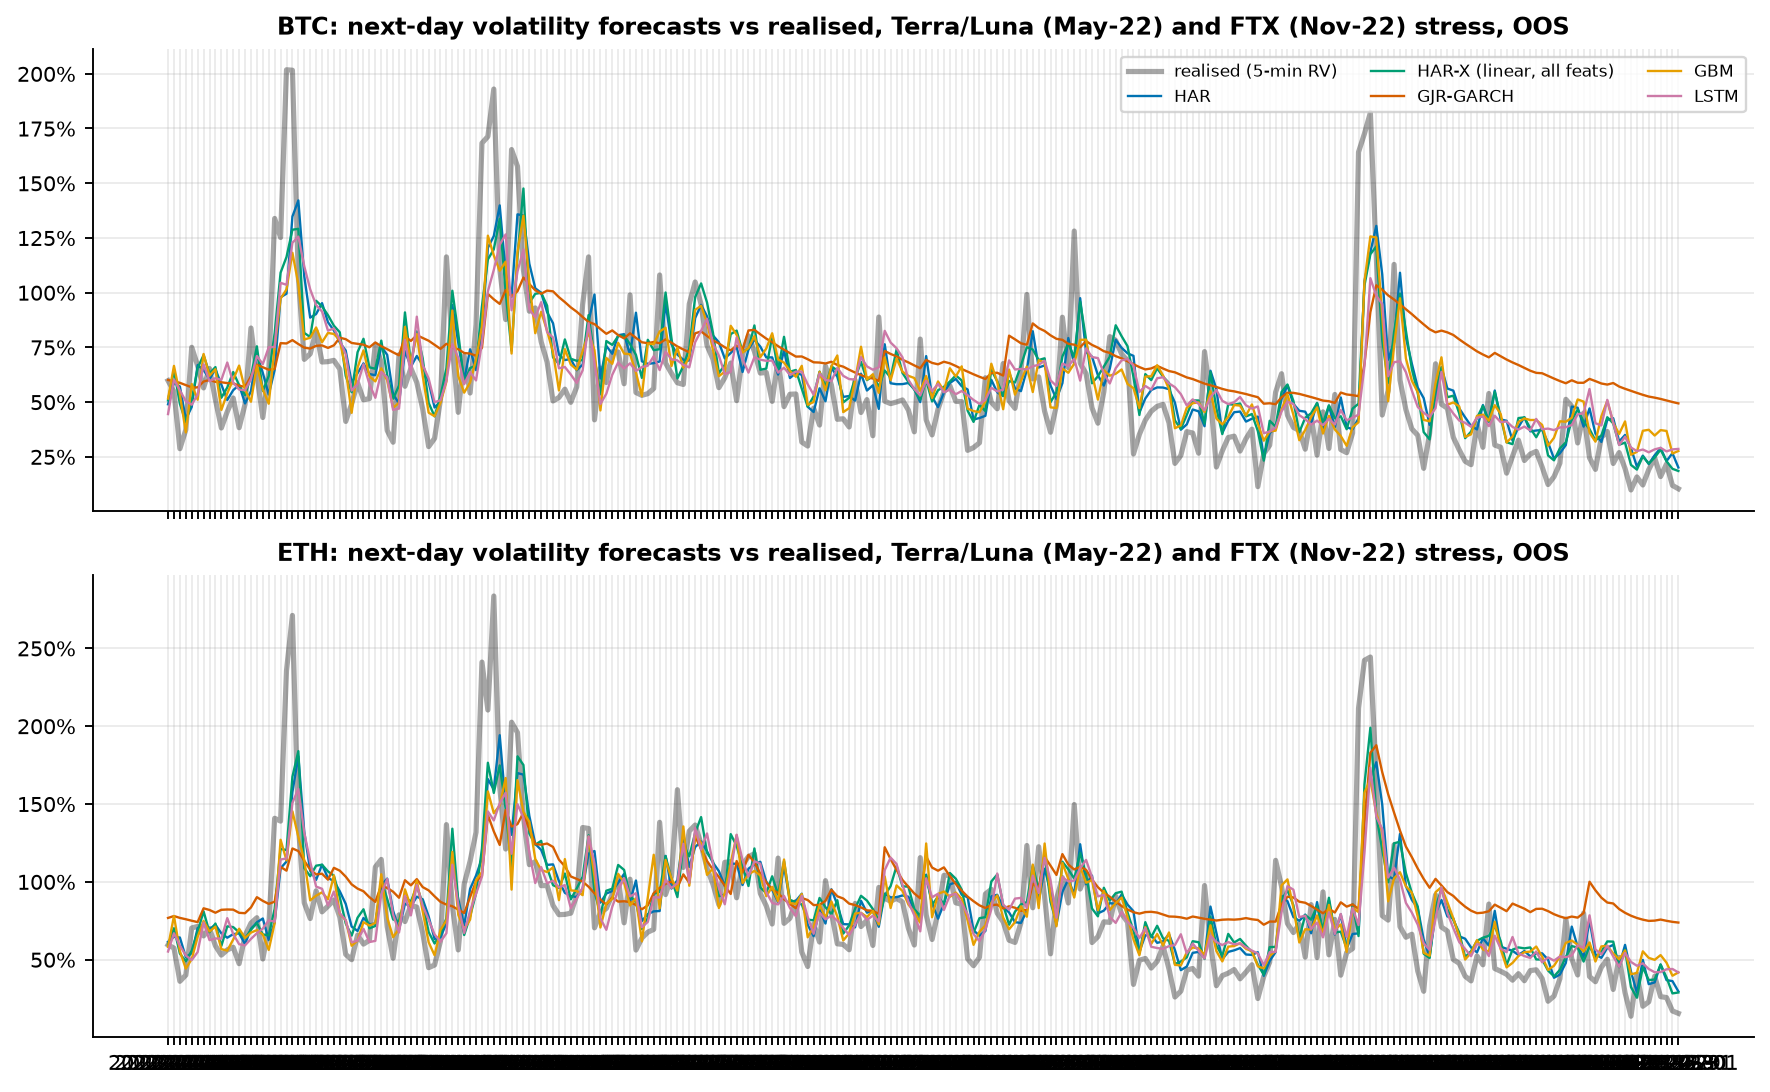
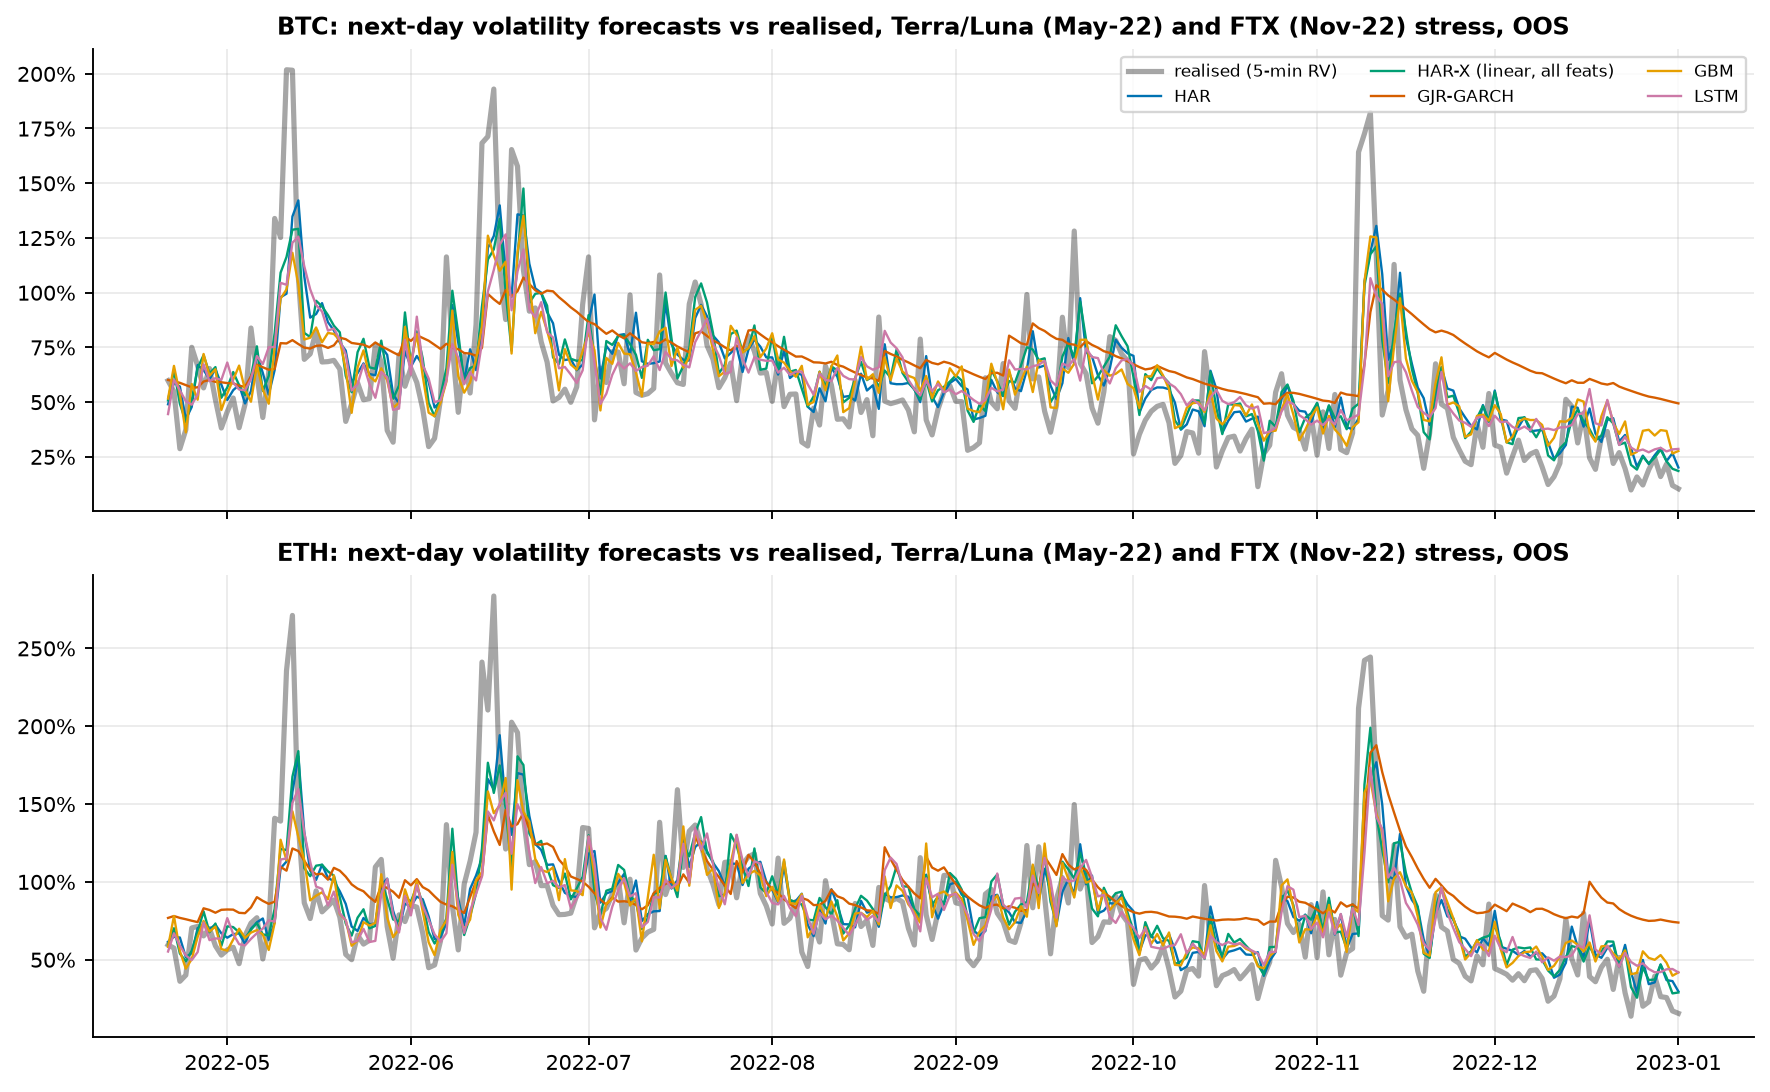
README with results, figures set, hourly forecasts

Changed region(s): [[0.0621, 0.9652, 0.9944, 0.9963]]

diff --git a/src/ivr/figures.py b/src/ivr/figures.py
@@ -44,7 +44,10 @@ def _daily(sym):
 
 
 def _fc(sym, kind="daily"):
-    return pd.read_csv(RES / f"{kind}_forecasts_{sym}.csv", index_col=0, parse_dates=True)
+    fc = pd.read_csv(RES / f"{kind}_forecasts_{sym}.csv", index_col=0, parse_dates=True)
+    if "target_date" in fc:
+        fc["target_date"] = pd.to_datetime(fc["target_date"])
+    return fc
 
 
 def _close_daily(sym):
@@ -397,9 +400,10 @@ def fig14_equity_drawdown():
             ax[0, j].plot(eq, color=c, lw=1.1, label=n)
             ax[1, j].plot(eq / eq.cummax() - 1, color=c, lw=0.9)
         ax[0, j].set_yscale("log")
-        ax[0, j].set_title(f"{s[:3]}: growth of 1 USDT, net of 10 bps one-way costs\nILLUSTRATION of risk control, not a strategy; sample drift dominates returns")
+        ax[0, j].set_title(f"{s[:3]}: growth of 1 USDT, net of 10 bps one-way costs")
         ax[1, j].set_title("Drawdown"); ax[1, j].yaxis.set_major_formatter(matplotlib.ticker.PercentFormatter(1.0, decimals=0))
     ax[0, 0].legend(fontsize=6.5)
+    fig.suptitle("ILLUSTRATION of risk control, not a strategy: returns are dominated by the sample's drift", fontsize=10, y=1.01)
     _save(fig, "14_equity_and_drawdown_illustration")
 
 

diff --git a/README.md b/README.md
@@ -1,0 +1,245 @@
+# Intraday volatility forecasting: microstructure features, walk-forward evaluation, transaction costs
+
+Forecasting next-day and next-hour **realised volatility** of BTC/USDT and ETH/USDT from 5-minute
+returns plus volume / taker-flow / spread-proxy features, comparing HAR-RV, GARCH/GJR-GARCH,
+gradient boosting and a small LSTM under a strict walk-forward protocol (QLIKE, MSE, Diebold-Mariano),
+and then using the forecasts for a **volatility-targeting position-sizing illustration with explicit costs**.
+
+> **This repository is a forecasting and risk-management study. It does not contain, and does not claim,
+> a profitable trading strategy.** The sizing experiment is judged on how well it controls risk, and
+> in this sample it does *not* improve return or Sharpe versus buy-and-hold (see below).
+
+Everything below is reproduced by the code in this repo from public data; every number in the tables
+is copied from `reports/results/*.csv`.
+
+## Data
+
+* **Source:** Binance public market data, `data.binance.vision` spot monthly 1-minute klines, BTCUSDT and
+  ETHUSDT, Jan 2019 - Sep 2026. No login, no API key. Raw zips are checked against Binance's published
+  SHA-256 file, parsed as CSV in memory (never extracted/executed) and kept in `data/raw/` (git-ignored).
+* 4.07 M one-minute bars per symbol; 0.10 % of minutes are missing (exchange downtime). Days with >10 % of
+  minutes missing are dropped (10 days for BTC, all in 2019-2021, i.e. before the out-of-sample period).
+* Processed 1-minute parquet (DuckDB) and daily features in `data/processed/` (git-ignored, rebuilt by the CLI).
+* A "day" is a UTC calendar day (crypto trades 24/7), 288 five-minute bars.
+
+![price and vol](reports/figures/01_price_and_realised_vol.png)
+
+### Stylised facts that motivate the models
+
+| | |
+|---|---|
+| ![seasonality](reports/figures/02_intraday_seasonality.png) | ![acf](reports/figures/03_volatility_clustering_acf.png) |
+| Strong intraday and weekday seasonality (volatility and volume peak in the US/EU overlap, weekends are quiet). This is why a weekday term matters in the results below. | Returns are nearly uncorrelated; |returns| and log RV are strongly and persistently autocorrelated (long memory) which is what HAR exploits. |
+
+![distributions](reports/figures/04_return_and_logrv_distributions.png)
+![jumps](reports/figures/05_jumps_rv_vs_bv.png)
+
+## Features (all known at the end of period *t*)
+
+* **Realised variance** from 5-minute log returns, **bipower variation**, jump variance `max(RV-BV,0)` and share,
+  negative semivariance share, share of variance in the last 4 hours of the day.
+* **HAR lags:** log RV at 1 day, 7-day and 30-day means.
+* **Volume / flow:** log traded value, log trade count, **taker-buy imbalance** `(2*taker_buy_base - volume)/volume`
+  (Binance provides taker-buy volume), Amihud-style illiquidity.
+* **Spread proxies** (no order book is available): Corwin-Schultz (2012) high-low estimator (two consecutive
+  daily bars) and Roll (1984) from 1-minute return autocovariance.
+* **Seasonality:** weekday of the target day (daily model), hour of the target hour (hourly model).
+
+![microstructure](reports/figures/06_microstructure_proxies.png)
+
+Spread proxies and volume are informative about *level* of volatility (top bars) but add little beyond the HAR
+lags once the HAR forecast is known (hatched bars: correlation with HAR's log forecast error is ~0). The
+Corwin-Schultz values here (~100 bps daily) are dominated by the daily range, i.e. by volatility itself, not by the
+true quoted spread of these very liquid pairs; treat them as a volatility-liquidity proxy, not a cost estimate.
+
+## Models
+
+| Model | Description |
+|---|---|
+| Naive | tomorrow's RV = today's RV |
+| **HAR** (baseline) | OLS on log RV: daily, weekly (7d), monthly (30d) |
+| HAR-DoW | HAR + weekday dummies of the target day *(added after the first GBM result, see "Honest notes")* |
+| HAR-X | linear OLS on all GBM features + weekday dummies *(same)* |
+| GARCH(1,1), GJR-GARCH(1,1) | `arch` package, constant mean, Student-t, daily close-to-close returns; parameters refit every 30 days, variance recursion run forward with fixed parameters |
+| GBM | gradient boosted trees (scikit-learn `HistGradientBoostingRegressor`), early stopping on a chronological validation tail |
+| LSTM | 1 layer, 16 units, 30-day sequences of the base features, 3-seed average |
+
+All ML/HAR models predict log RV and return `exp(pred) * smearing`; the smearing factor (Duan) is estimated on
+training data only (HAR: in-sample residuals; GBM/LSTM: chronological validation tail). Hyper-parameters
+were fixed up front and never tuned on the evaluation period.
+
+## Evaluation protocol (no look-ahead)
+
+* **Timing:** row *t* holds only information up to the end of day *t*; target = RV of day *t+1*.
+* **Expanding-window walk-forward:** minimum 730 training days, re-fit every 30 days, 1-step-ahead forecast at
+  every origin. A fit at origin *s* uses rows <= *s-1* only, i.e. targets already realised by end of day *s*.
+* Out-of-sample: 2,012 days per symbol (Jan 2021 - Sep 2026) for the daily task; 49,227 hours for the hourly task.
+* **Losses:** QLIKE (`RV/f - log(RV/f) - 1`, Patton 2011) and MSE on variance levels. **Diebold-Mariano** tests vs HAR
+  with Newey-West variance and Harvey-Leybourne-Newbold correction (positive t = model better than HAR).
+* **Leakage tests** (`pytest`): features recomputed on data truncated at day *t* are identical for all rows <= *t*;
+  perturbing prices/volumes after *t* leaves features at *t* unchanged; a meta-test shows a deliberately leaky
+  feature *is* flagged; walk-forward folds train only on realised targets; GARCH forecasts at *t* are unchanged by
+  later returns.
+
+![walk-forward](reports/figures/12_walk_forward_scheme.png)
+
+## Results - next-day volatility (out of sample)
+
+MSE is in units of 1e-6 (variance^2) and is dominated by a few spike days; QLIKE is the more informative loss.
+Ratios are relative to HAR (<1 = better). `p` is the Diebold-Mariano p-value vs HAR.
+
+**BTCUSDT**
+
+| Model | QLIKE | QLIKE / HAR | p | MSE (1e-6) | MSE / HAR | p |
+|---|---|---|---|---|---|---|
+| Naive | 0.476 | 1.564 | <0.001 | 1.591 | 1.399 | 0.001 |
+| **HAR** | 0.304 | 1 | | 1.138 | 1 | |
+| HAR-DoW | 0.250 | 0.822 | <0.001 | 1.082 | 0.951 | 0.001 |
+| HAR-X (linear) | **0.234** | **0.768** | <0.001 | 1.097 | 0.964 | 0.450 |
+| GARCH(1,1) | 0.399 | 1.310 | <0.001 | 1.349 | 1.186 | <0.001 |
+| GJR-GARCH | 0.402 | 1.320 | <0.001 | 1.382 | 1.215 | <0.001 |
+| GBM | 0.253 | 0.830 | <0.001 | **1.063** | **0.935** | 0.005 |
+| LSTM | 0.297 | 0.976 | 0.705 | 1.188 | 1.045 | 0.278 |
+
+**ETHUSDT**
+
+| Model | QLIKE | QLIKE / HAR | p | MSE (1e-6) | MSE / HAR | p |
+|---|---|---|---|---|---|---|
+| Naive | 0.383 | 1.475 | <0.001 | 3.293 | 1.338 | 0.001 |
+| **HAR** | 0.260 | 1 | | 2.462 | 1 | |
+| HAR-DoW | 0.226 | 0.868 | <0.001 | 2.375 | 0.965 | 0.012 |
+| HAR-X (linear) | **0.221** | **0.852** | <0.001 | 2.376 | 0.965 | 0.220 |
+| GARCH(1,1) | 0.361 | 1.389 | <0.001 | 3.085 | 1.253 | <0.001 |
+| GJR-GARCH | 0.364 | 1.402 | <0.001 | 3.120 | 1.267 | <0.001 |
+| GBM | 0.222 | 0.856 | 0.001 | 2.442 | 0.992 | 0.811 |
+| LSTM | 0.248 | 0.954 | 0.304 | 2.461 | 1.000 | 0.989 |
+
+![loss bars](reports/figures/08_daily_loss_vs_har.png)
+
+**What the numbers say**
+
+* Plain HAR is a strong baseline: daily-return GARCH/GJR are ~30-40 % worse in QLIKE, and the naive forecast ~50 % worse.
+* GBM beats HAR on QLIKE (-17 % BTC, -14 % ETH, DM p<0.01), **but a linear HAR with weekday dummies recovers most of
+  it** (-18 % / -13 %) and the linear HAR-X (best QLIKE on both) matches or beats GBM. Permutation importance
+  (below) shows the weekday is the dominant GBM feature. The honest reading is: *HAR misses the weekday effect; trees add
+  little beyond it*. The microstructure/flow features add a small further QLIKE gain in the linear model
+  (HAR-DoW -> HAR-X: 0.250 -> 0.234 BTC, 0.226 -> 0.221 ETH); I did not test whether that gain is statistically significant.
+* The small LSTM is not distinguishable from HAR (p = 0.71 / 0.30).
+* The advantage over HAR is not constant: it is largest in 2024-2026 (QLIKE ratio of HAR-X 0.71 / 0.72 / 0.62 for BTC in
+  2024 / 25 / 26, vs 0.98 in 2021; `reports/results/daily_qlike_ratio_by_year_*.csv`). I did not investigate why.
+
+![rolling](reports/figures/09_rolling_qlike_ratio.png)
+![stress](reports/figures/07_forecast_vs_realised_stress.png)
+
+| | |
+|---|---|
+| ![importance](reports/figures/10_feature_importance_and_coefficients.png) | ![calibration](reports/figures/11_calibration.png) |
+
+(The HAR-X coefficient plot has very wide CIs on `lrv` / `lbv`: they are almost collinear (RV vs BV), so individual
+coefficients are unreliable even though the forecast is fine. Importance/coefficient panels use a single pre-2024 fit.)
+
+## Results - next-hour volatility (out of sample)
+
+HAR (3 lags), HAR-S (HAR + hour-of-day dummies) and GBM; 49,227 OOS hours per symbol, same walk-forward protocol (re-fit
+every 30 days).
+
+| Symbol | Model | QLIKE | QLIKE / HAR | p | MSE / HAR | p |
+|---|---|---|---|---|---|---|
+| BTC | Naive | 0.798 | 1.645 | <0.001 | 1.484 | 0.050 |
+| BTC | **HAR** | 0.485 | 1 | | 1 | |
+| BTC | HAR-S | 0.466 | 0.960 | <0.001 | 0.993 | 0.248 |
+| BTC | GBM | 0.459 | 0.947 | <0.001 | 1.013 | 0.579 |
+| ETH | Naive | 0.781 | 1.656 | <0.001 | 1.133 | 0.257 |
+| ETH | **HAR** | 0.472 | 1 | | 1 | |
+| ETH | HAR-S | 0.452 | 0.958 | <0.001 | 0.998 | 0.577 |
+| ETH | GBM | 0.449 | 0.951 | <0.001 | 1.069 | 0.402 |
+
+Intraday seasonality is worth ~4-5 % of QLIKE at the hourly horizon; by MSE (spike-dominated) no model is distinguishable from HAR.
+
+![hourly](reports/figures/15_hourly_loss_vs_har.png)
+![hourly fc](reports/figures/16_hourly_forecast_vs_realised.png)
+
+## Use case: volatility targeting with transaction costs (risk-management illustration)
+
+Rule: `w_t = min(1, 40% / forecast annualised vol_{t+1})`, long-only spot, **no leverage** (cap 1), decided at the
+close of day *t* from the forecast made at that close, earning day *t+1*'s close-to-close return. Costs: **10 bps one-way**
+on the traded notional, computed from the drifted pre-trade weight (so turnover is exact), charged on the next day's return.
+Sensitivity 0 / 5 / 10 / 20 / 50 bps is in `reports/results/sizing_*.csv`. Same 2,012 OOS days. Figures at 10 bps:
+
+| BTC | ann. vol | 30d-vol RMSE vs 40 % target | max DD | ann. return | Sharpe | ann. turnover | avg weight |
+|---|---|---|---|---|---|---|---|
+| Buy & hold (w=1) | 55.0 % | 21.1 % | -76.6 % | 24.2 % | 0.67 | 0.2x | 1.00 |
+| Vol-target, HAR | 37.3 % | 7.5 % | -62.1 % | 12.4 % | 0.50 | 27.7x | 0.76 |
+| Vol-target, GJR-GARCH | 34.9 % | 9.6 % | -56.3 % | 17.1 % | 0.63 | 6.5x | 0.69 |
+| Vol-target, GBM | 37.1 % | 7.9 % | -61.2 % | 10.9 % | 0.46 | 32.1x | 0.78 |
+| Vol-target, HAR + 10 % no-trade band | 37.3 % | 7.7 % | -62.1 % | 14.1 % | 0.54 | 20.8x | 0.76 |
+| Static weight = mean HAR weight | 41.9 % | 13.6 % | -65.6 % | 21.1 % | 0.67 | 1.4x | 0.76 |
+| *Oracle: true next-day RV (look-ahead, upper bound only)* | 33.7 % | 8.4 % | -45.6 % | 31.8 % | 0.99 | 41.1x | 0.81 |
+
+| ETH | ann. vol | 30d-vol RMSE vs 40 % target | max DD | ann. return | Sharpe | ann. turnover | avg weight |
+|---|---|---|---|---|---|---|---|
+| Buy & hold (w=1) | 72.6 % | 36.0 % | -79.3 % | 6.2 % | 0.45 | 0.2x | 1.00 |
+| Vol-target, HAR | 40.8 % | 8.0 % | -55.7 % | 7.1 % | 0.37 | 27.9x | 0.63 |
+| Vol-target, GJR-GARCH | 35.8 % | 9.3 % | -47.4 % | 12.1 % | 0.50 | 7.3x | 0.52 |
+| Vol-target, GBM | 41.2 % | 7.8 % | -57.5 % | 5.9 % | 0.34 | 34.3x | 0.65 |
+| Vol-target, HAR + 10 % no-trade band | 40.8 % | 8.2 % | -55.4 % | 8.5 % | 0.40 | 21.3x | 0.62 |
+| Static weight = mean HAR weight | 45.5 % | 13.9 % | -60.8 % | 10.2 % | 0.44 | 2.4x | 0.63 |
+| *Oracle (look-ahead)* | 36.6 % | 5.9 % | -39.1 % | 35.3 % | 1.01 | 47.1x | 0.70 |
+
+![vol targeting](reports/figures/13_vol_targeting_control_and_costs.png)
+![equity](reports/figures/14_equity_and_drawdown_illustration.png)
+
+**Reading it correctly**
+
+* **What works as risk control:** the realised volatility of the position is pulled from 55 % / 73 % (BTC / ETH
+  buy-and-hold) toward the 40 % target, the 30-day realised vol is 2-4x more stable, the worst day is cut (BTC -15.4 % -> -9.3 %)
+  and max drawdown is shallower for ETH (-79 % -> -56 %) and modestly so for BTC.
+* **What does not:** Sharpe and return are **not** improved by the forecast-based rule in this sample (BTC Sharpe 0.50 vs 0.67
+  buy-and-hold; a static weight with the same average exposure does as well on return/Sharpe, with higher vol). Cost drag at
+  10 bps is ~3 % per year of return for HAR-based sizing (27.7x annual turnover), ~2.4 % with a 10 % no-trade band, 0.8 % for GJR-GARCH
+  sizing (smoother forecasts). At 50 bps HAR sizing's BTC Sharpe falls to 0.20 (from 0.57 gross).
+* Returns are dominated by the sample's strong drift in 2021-2026 and the cap at 1.0. The oracle row is shown only to bound
+  what perfect volatility knowledge would give; it uses the future and is not achievable.
+* GARCH is the worst *forecaster* but the best *sizer* by turnover/Sharpe here: forecast loss and portfolio usefulness are different questions
+  (smoother forecasts trade less), and I did not run a significance test on any portfolio metric. These are single-path, in-sample-period comparisons.
+
+## Architecture & cost choices
+
+* **Local, no cloud.** The whole problem is ~4 M one-minute rows x 2 symbols (a few hundred MB of zips, ~100 MB parquet) and
+  models with a few thousand daily rows or ~50 k hourly rows; it fits on a laptop (DuckDB/pandas, scikit-learn, a 16-unit LSTM
+  on CPU). A managed warehouse / GPU would add cost and operational surface without improving any result here; walk-forward
+  refits are embarrassingly small. Thread usage is capped (`OMP_NUM_THREADS=4`) so the laptop stays usable.
+* **Free, redistributable-to-describe data**, no API keys anywhere in the code; raw downloads are checksum-verified, parsed as
+  plain CSV, git-ignored and never executed.
+* **DuckDB + parquet** for storage and sanity queries, pandas for feature engineering, a flat `ivr` CLI / Makefile for reproducibility.
+* **Cost choices in the use case:** 10 bps one-way is a deliberately round assumption in the range of a standard spot taker fee tier
+  (check the current Binance fee schedule; it is lower for high volume / fee-token discounts) plus a little slippage; execution is
+  assumed at the daily close price. The 0-50 bps sensitivity is reported so the conclusion does not hinge on it.
+
+## Reproduce
+
+```bash
+make setup        # uv sync (Python 3.12)
+make data         # download + verify + process Binance klines (~370 MB, ~25 min on a normal connection)
+make all          # features, daily + hourly walk-forward, sizing, all figures  (tens of minutes on a laptop CPU)
+make test         # pytest (leakage tests use synthetic data, no download needed)
+```
+
+`uv run ivr {download,process,daily,hourly,sizing,figures,all}` runs single stages. Outputs: `reports/results/*.csv`, `reports/figures/*.png`.
+
+## Honest notes and limitations
+
+* **Specification search after seeing results:** HAR-DoW and HAR-X were added *after* the first GBM-vs-HAR run showed a large GBM
+  gain, to check whether it was the weekday effect. They are disclosed ablations, not pre-registered models; the DM p-values are
+  not adjusted for multiple comparisons and I did not run a Model Confidence Set. Model hyper-parameters, windows and refit frequency were fixed beforehand.
+* **Realised variance is a proxy**: 5-minute RV on one exchange (Binance spot, USDT quote), so forecast errors include measurement
+  error and exchange-specific effects; absolute QLIKE levels (~0.2-0.5) mostly reflect that noise. USDT is not USD.
+* **No order-book data:** spread estimators are OHLC-based proxies (see above); no true bid-ask, depth, or impact modelling.
+* **GARCH** is fitted on daily close-to-close returns (UTC) and compared with a 5-minute-based RV target; between 30-day refits the variance
+  recursion runs with fixed parameters. A GARCH on intraday returns or a realised-GARCH would likely do better; not done.
+* **LSTM** is small, un-tuned and uses 3 seeds; its non-result should not be read as "deep learning cannot help".
+* **Sizing:** one historical path, no leverage/short, no funding, borrowing, taxes or slippage beyond the flat bps cost, execution at close,
+  and no significance tests on portfolio metrics. It is an illustration of risk control, nothing more.
+* Only two highly correlated assets in one regime-heavy period (2021-2026); weekday patterns and the HAR-X advantage were
+  stronger in later years and may not persist.
+* Two earlier-hourly rows with zero traded volume were handled by clipping before the log (fixed before the final run).
